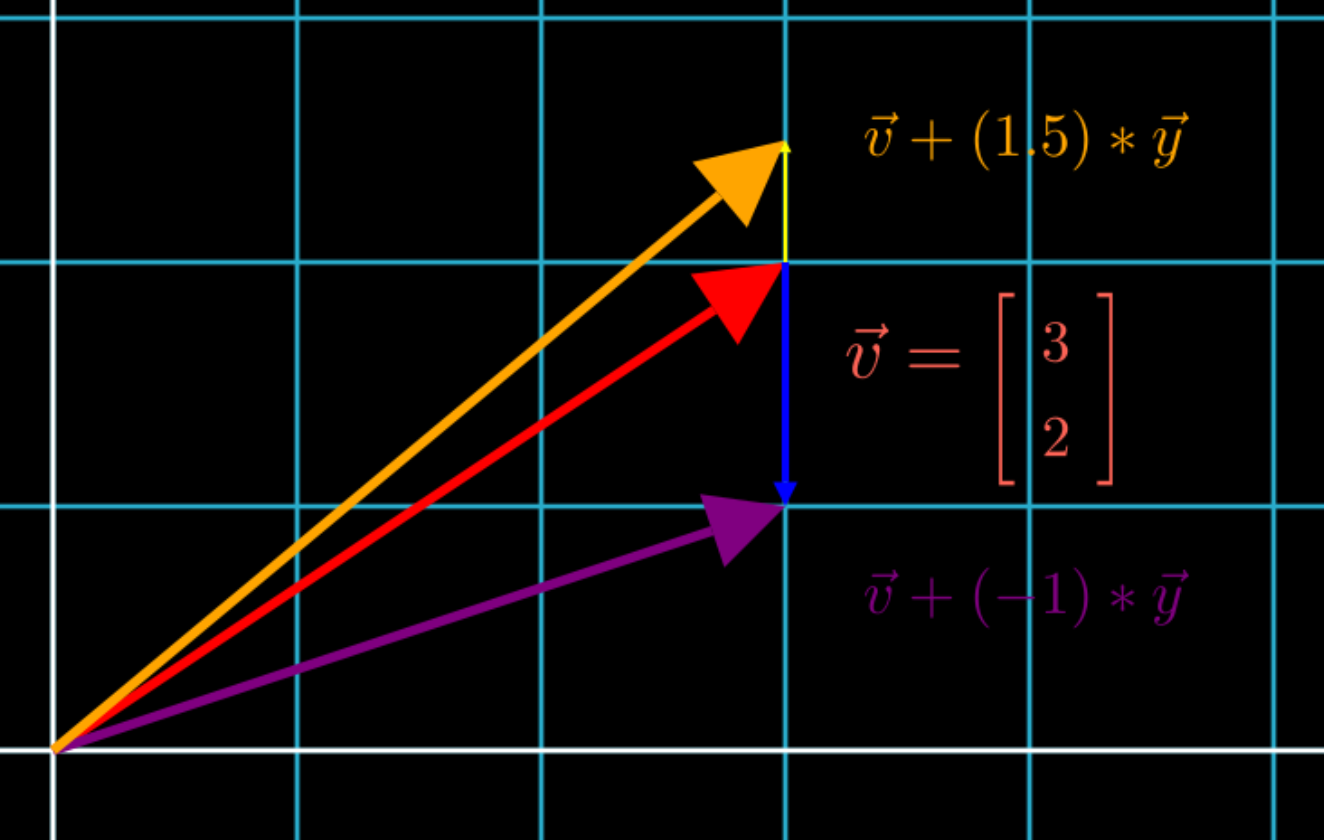
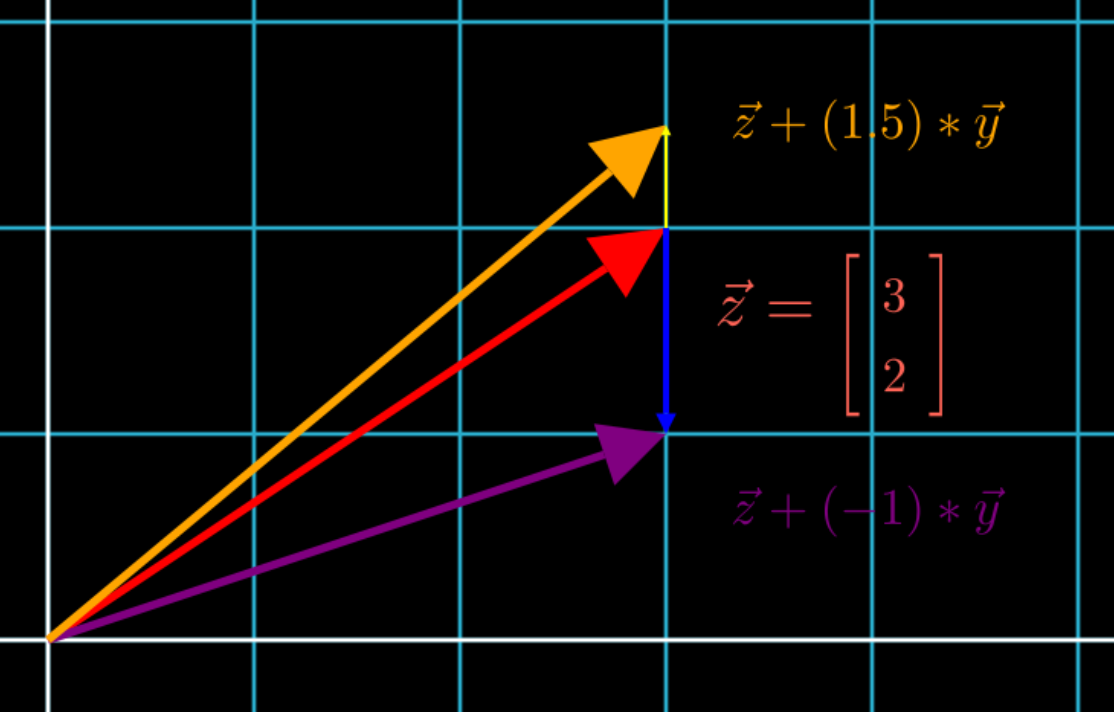
any vec y

Changed region(s): [[0.0, 0.0, 1.0, 1.0]]

diff --git a/ch2.1.md b/ch2.1.md
@@ -64,17 +64,19 @@ These calculations were found using a method presented in the paper "Interpretin
 
 **Changing a feature on the basis vector**
 
-First, let's start with a simpler case, where the feature we want to change is on a basis vector. Say the Body Size vector is on the y-axis. We have a vector $$z=[3,2]$$ where Body Size = 2, and we want to find a similar vector, such as one where Body Size = 1. Then all we need to do is to add  
+First, let's start with a simpler case, where the feature we want to change is on a basis vector. Say the Body Size vector is on the y-axis. We have a vector $$z=[3,2]$$ where Body Size = 2, and we want to find a similar vector, such as one where Body Size = 1. Since $$y = [0,1]$$, all we need to do is to add $$y$$ to $$z$$: 
 
-$$\vec{v} + \alpha * \vec{y} = \begin{bmatrix} 3 \\ 2 \end{bmatrix} + \alpha * \begin{bmatrix} 0 \\ 1 \end{bmatrix}$$
+$$\vec{z} + \alpha * \vec{y} = \begin{bmatrix} 3 \\ 2 \end{bmatrix} + \alpha * \begin{bmatrix} 0 \\ 1 \end{bmatrix}$$
 
 In which $$\alpha$$ is a scalar of any real number [^real].
 
 [^real]: In a simplified definition, a real number is allowed to be a fraction, negative, irrational, but not imaginary. See: https://en.wikipedia.org/wiki/Real_number
 
-So visually, this would look like:
+Since vector addition adds the head of a vector with the tail of another vector, visually, this would look like:
 
 <img src="/ch2/anyVecY.PNG" width="300" height="200">
+
+Such that the yellow and blue vectors represent $$\alpha * \vec{y}$$.
 
 **Changing a feature NOT on the basis vector**
 
